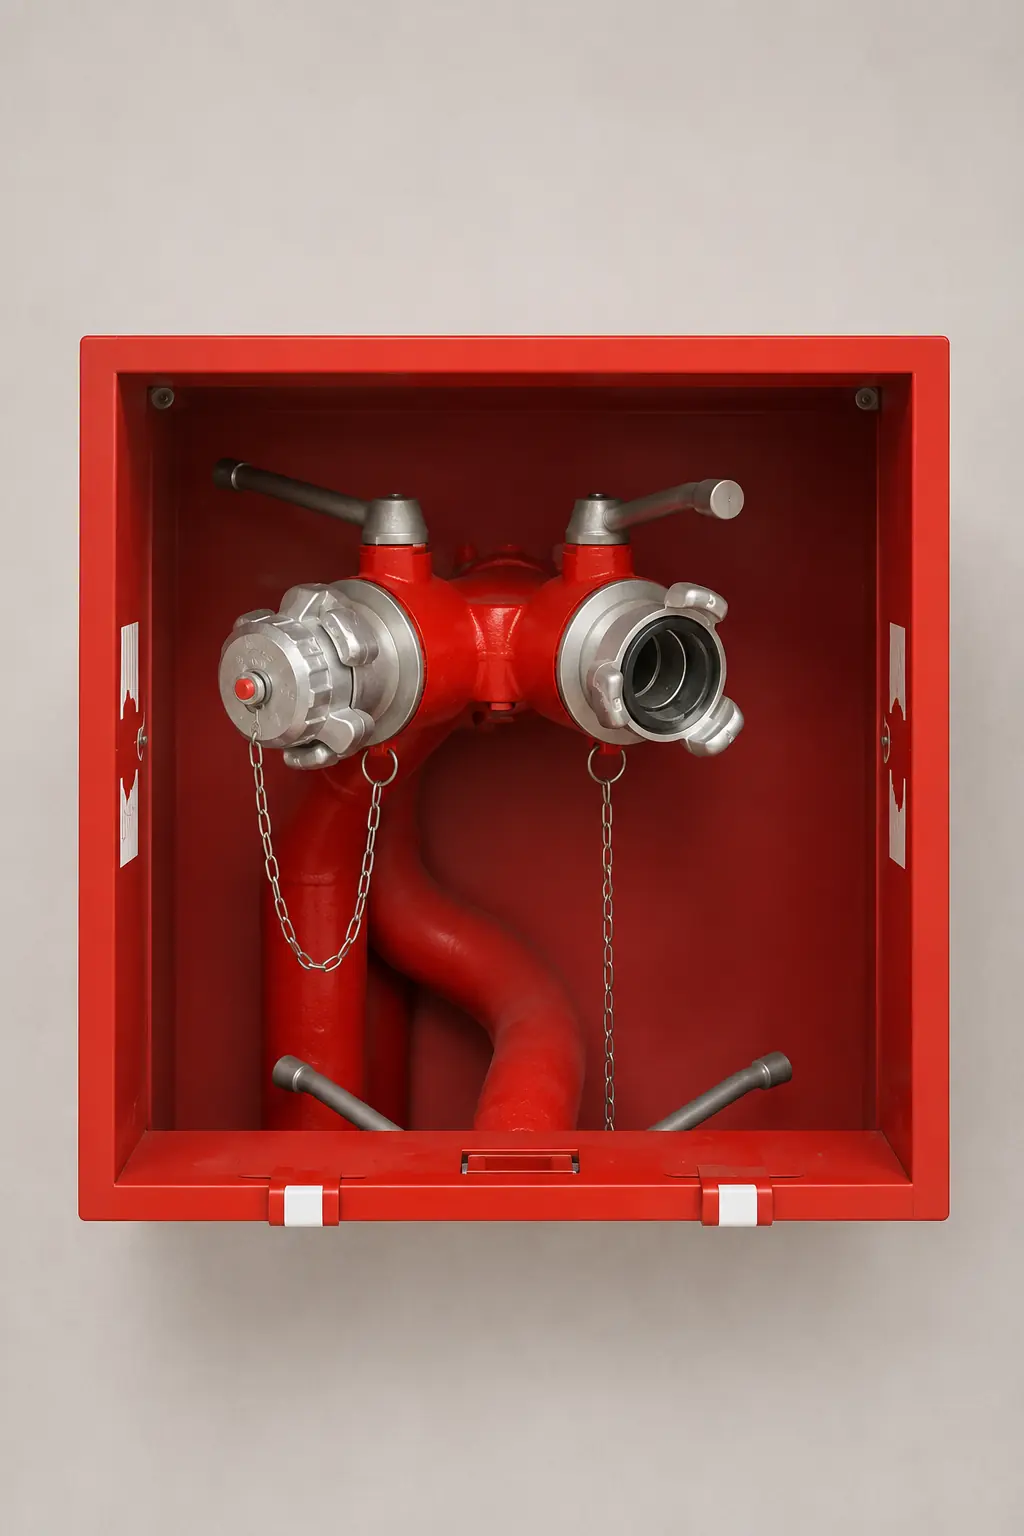
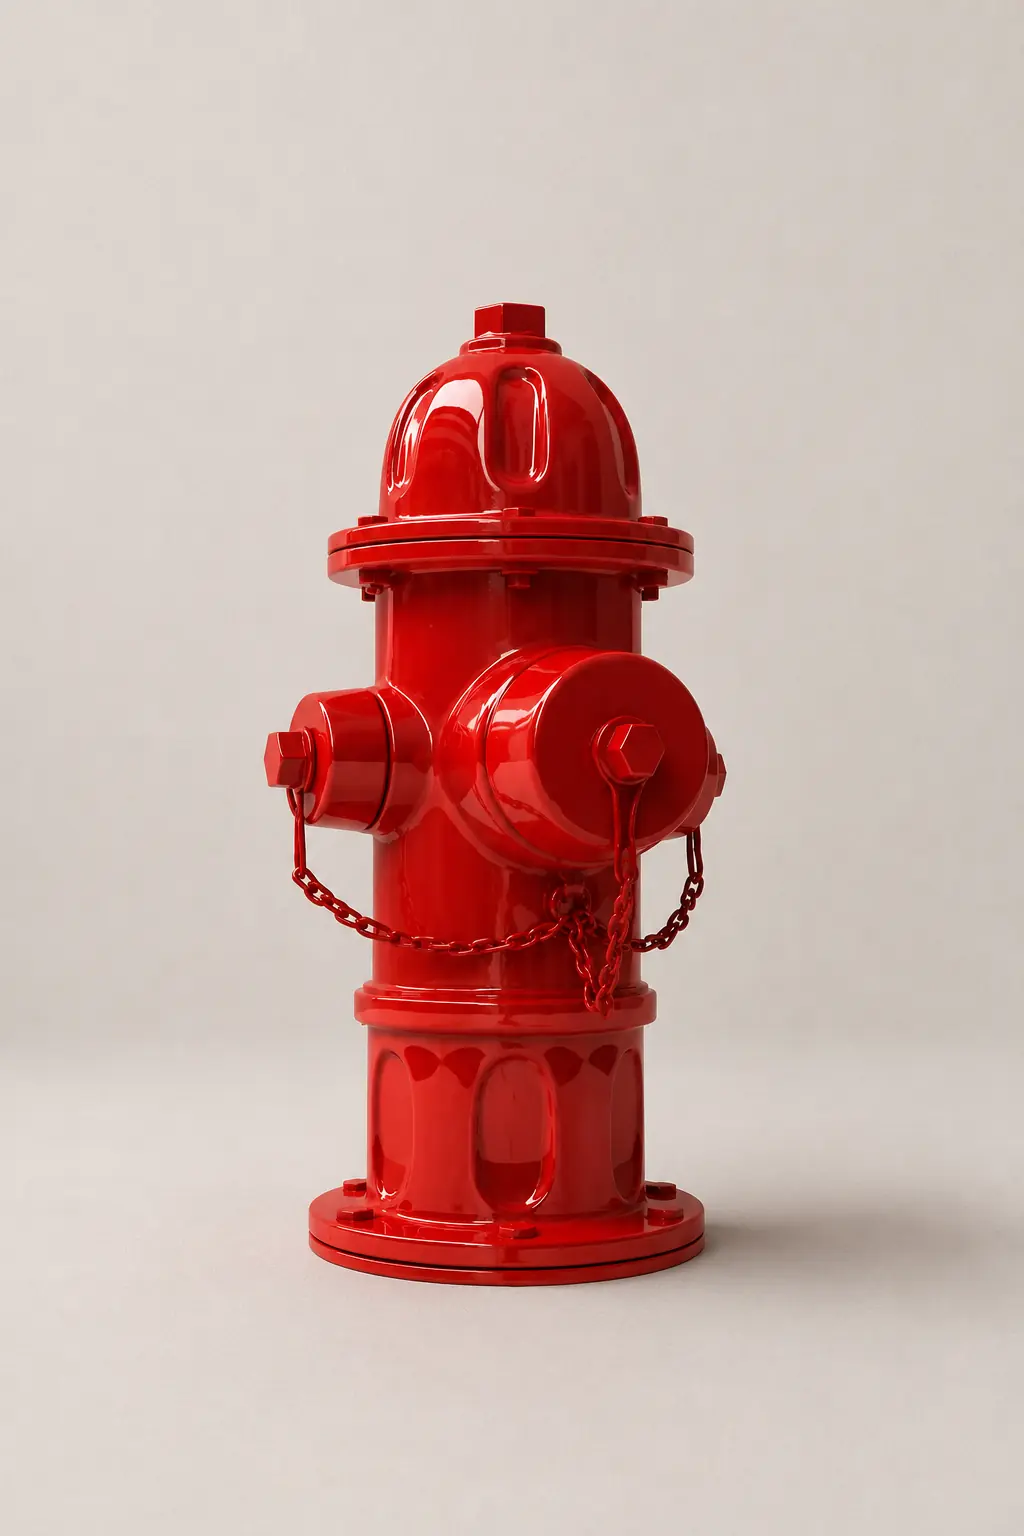
chore: update domain and compress imagen9

diff --git a/index.html b/index.html
@@ -7,20 +7,20 @@
     <meta name="description" content="Venta, instalación y mantenimiento de extintores y sistemas contra incendios en Las Palmas. Empresa homologada con más de 30 años de experiencia."/>
     <meta name="keywords" content="extintores Las Palmas, protección contra incendios, mantenimiento extintores, sistemas PCI, detección de incendios Gran Canaria, BIEs, hidrantes"/>
     <meta name="robots" content="index, follow"/>
-    <link rel="canonical" href="https://www.asistecontraincendios.com/"/>
+    <link rel="canonical" href="https://www.asistecontraincendioslp.es/"/>
     
     <meta property="og:type" content="website"/>
-    <meta property="og:url" content="https://www.asistecontraincendios.com/"/>
+    <meta property="og:url" content="https://www.asistecontraincendioslp.es/"/>
     <meta property="og:title" content="Protección contra Incendios en Las Palmas | Empresa Especializada"/>
     <meta property="og:description" content="Venta, instalación y mantenimiento de extintores y sistemas contra incendios en Las Palmas. Empresa homologada con más de 30 años de experiencia."/>
-    <meta property="og:image" content="https://www.asistecontraincendios.com/assets/images/portadasiste.webp"/>
+    <meta property="og:image" content="https://www.asistecontraincendioslp.es/assets/images/portadasiste.webp"/>
     <meta property="og:site_name" content="ASISTE CONTRAINCENDIOS"/>
     
     <meta name="twitter:card" content="summary_large_image"/>
-    <meta name="twitter:url" content="https://www.asistecontraincendios.com/"/>
+    <meta name="twitter:url" content="https://www.asistecontraincendioslp.es/"/>
     <meta name="twitter:title" content="Protección contra Incendios en Las Palmas | Empresa Especializada"/>
     <meta name="twitter:description" content="Venta, instalación y mantenimiento de extintores y sistemas contra incendios en Las Palmas."/>
-    <meta name="twitter:image" content="https://www.asistecontraincendios.com/assets/images/portadasiste.webp"/>
+    <meta name="twitter:image" content="https://www.asistecontraincendioslp.es/assets/images/portadasiste.webp"/>
     
     <link rel="icon" type="image/png" href="assets/images/logo.webp"/>
     
@@ -32,8 +32,8 @@
       "@context": "https://schema.org",
       "@type": "LocalBusiness",
       "name": "ASISTE CONTRAINCENDIOS",
-      "image": "https://www.asistecontraincendios.com/assets/images/logo.webp",
-      "url": "https://www.asistecontraincendios.com/",
+      "image": "https://www.asistecontraincendioslp.es/assets/images/logo.webp",
+      "url": "https://www.asistecontraincendioslp.es/",
       "telephone": "+34828690029",
       "address": {
         "@type": "PostalAddress",

diff --git a/conocenos.html b/conocenos.html
@@ -7,20 +7,20 @@
     <meta name="description" content="Conoce la historia, misión y equipo de ASISTE CONTRAINCENDIOS. Más de 30 años de experiencia protegiendo vidas y negocios en Las Palmas."/>
     <meta name="keywords" content="sobre nosotros, ASISTE CONTRAINCENDIOS, empresa extintores Las Palmas, equipo contraincendios Gran Canaria"/>
     <meta name="robots" content="index, follow"/>
-    <link rel="canonical" href="https://www.asistecontraincendios.com/conocenos.html"/>
+    <link rel="canonical" href="https://www.asistecontraincendioslp.es/conocenos.html"/>
     
     <meta property="og:type" content="website"/>
-    <meta property="og:url" content="https://www.asistecontraincendios.com/conocenos.html"/>
+    <meta property="og:url" content="https://www.asistecontraincendioslp.es/conocenos.html"/>
     <meta property="og:title" content="Conócenos | ASISTE CONTRAINCENDIOS"/>
     <meta property="og:description" content="Conoce la historia, misión y equipo de ASISTE CONTRAINCENDIOS. Más de 30 años de experiencia protegiendo vidas y negocios."/>
-    <meta property="og:image" content="https://www.asistecontraincendios.com/assets/images/imagenempresa.webp"/>
+    <meta property="og:image" content="https://www.asistecontraincendioslp.es/assets/images/imagenempresa.webp"/>
     <meta property="og:site_name" content="ASISTE CONTRAINCENDIOS"/>
     
     <meta name="twitter:card" content="summary_large_image"/>
-    <meta name="twitter:url" content="https://www.asistecontraincendios.com/conocenos.html"/>
+    <meta name="twitter:url" content="https://www.asistecontraincendioslp.es/conocenos.html"/>
     <meta name="twitter:title" content="Conócenos | ASISTE CONTRAINCENDIOS"/>
     <meta name="twitter:description" content="Nuestra historia y compromiso con la seguridad contra incendios."/>
-    <meta name="twitter:image" content="https://www.asistecontraincendios.com/assets/images/imagenempresa.webp"/>
+    <meta name="twitter:image" content="https://www.asistecontraincendioslp.es/assets/images/imagenempresa.webp"/>
     
     <link rel="icon" type="image/png" href="assets/images/logo.webp"/>
     
@@ -36,8 +36,8 @@
         "name": "ASISTE CONTRAINCENDIOS",
         "foundingDate": "1990",
         "description": "Líderes en prevención y supresión de incendios en Las Palmas.",
-        "url": "https://www.asistecontraincendios.com/",
-        "logo": "https://www.asistecontraincendios.com/assets/images/logo.webp"
+        "url": "https://www.asistecontraincendioslp.es/",
+        "logo": "https://www.asistecontraincendioslp.es/assets/images/logo.webp"
       }
     }
     </script>

diff --git a/servicios.html b/servicios.html
@@ -7,20 +7,20 @@
     <meta name="description" content="Descubre nuestros servicios integrales de protección contra incendios: venta de extintores, BIEs, sistemas de detección, hidrantes y señalización."/>
     <meta name="keywords" content="servicios contraincendios, mantenimiento BIEs, instalación rociadores, sistemas de detección, señalización de emergencia, hidrantes, columnas secas"/>
     <meta name="robots" content="index, follow"/>
-    <link rel="canonical" href="https://www.asistecontraincendios.com/servicios.html"/>
+    <link rel="canonical" href="https://www.asistecontraincendioslp.es/servicios.html"/>
     
     <meta property="og:type" content="website"/>
-    <meta property="og:url" content="https://www.asistecontraincendios.com/servicios.html"/>
+    <meta property="og:url" content="https://www.asistecontraincendioslp.es/servicios.html"/>
     <meta property="og:title" content="Nuestros Servicios | ASISTE CONTRAINCENDIOS"/>
     <meta property="og:description" content="Descubre nuestros servicios integrales de protección contra incendios: venta de extintores, BIEs, sistemas de detección y más."/>
-    <meta property="og:image" content="https://www.asistecontraincendios.com/assets/images/portadasiste.webp"/>
+    <meta property="og:image" content="https://www.asistecontraincendioslp.es/assets/images/portadasiste.webp"/>
     <meta property="og:site_name" content="ASISTE CONTRAINCENDIOS"/>
     
     <meta name="twitter:card" content="summary_large_image"/>
-    <meta name="twitter:url" content="https://www.asistecontraincendios.com/servicios.html"/>
+    <meta name="twitter:url" content="https://www.asistecontraincendioslp.es/servicios.html"/>
     <meta name="twitter:title" content="Nuestros Servicios | ASISTE CONTRAINCENDIOS"/>
     <meta name="twitter:description" content="Servicios integrales de protección contra incendios en Las Palmas."/>
-    <meta name="twitter:image" content="https://www.asistecontraincendios.com/assets/images/portadasiste.webp"/>
+    <meta name="twitter:image" content="https://www.asistecontraincendioslp.es/assets/images/portadasiste.webp"/>
     
     <link rel="icon" type="image/png" href="assets/images/logo.webp"/>
     

diff --git a/legal.html b/legal.html
@@ -6,7 +6,7 @@
     <title>Aviso Legal y Privacidad | ASISTE CONTRAINCENDIOS</title>
     <meta name="description" content="Aviso legal, política de privacidad y política de cookies de ASISTE CONTRAINCENDIOS."/>
     <meta name="robots" content="noindex, follow"/>
-    <link rel="canonical" href="https://www.asistecontraincendios.com/legal.html"/>
+    <link rel="canonical" href="https://www.asistecontraincendioslp.es/legal.html"/>
     <link rel="icon" type="image/png" href="assets/images/logo.webp"/>
     
     <link href="https://fonts.googleapis.com/css2?family=Material+Symbols+Outlined:wght,FILL@100..700,0..1&amp;display=swap" rel="stylesheet"/>

diff --git a/assets/js/main.js b/assets/js/main.js
@@ -227,7 +227,7 @@ document.addEventListener('DOMContentLoaded', () => {
             // Use a public URL if testing locally to prevent Windows from trying to share a local file path
             let shareUrl = window.location.href;
             if (shareUrl.startsWith('file://') || shareUrl.includes('localhost') || shareUrl.includes('127.0.0.1')) {
-                shareUrl = 'https://www.asistecontraincendios.com'; // Dummy domain for testing
+                shareUrl = 'https://www.asistecontraincendioslp.es'; // Dummy domain for testing
             }
             
             const shareData = {

diff --git a/update_domain.py b/update_domain.py
@@ -1,0 +1,21 @@
+import os
+
+directory = r"c:\Users\arenc\Desktop\asiste"
+
+def replace_domain():
+    for root, _, files in os.walk(directory):
+        for file in files:
+            if file.endswith(".html") or file.endswith(".css") or file.endswith(".js") or file.endswith(".xml") or file.endswith(".txt"):
+                filepath = os.path.join(root, file)
+                
+                with open(filepath, 'r', encoding='utf-8') as f:
+                    content = f.read()
+                
+                if "asistecontraincendios.com" in content:
+                    new_content = content.replace("asistecontraincendios.com", "asistecontraincendioslp.es")
+                    with open(filepath, 'w', encoding='utf-8') as f:
+                        f.write(new_content)
+                    print(f"Updated {file}")
+
+if __name__ == "__main__":
+    replace_domain()
